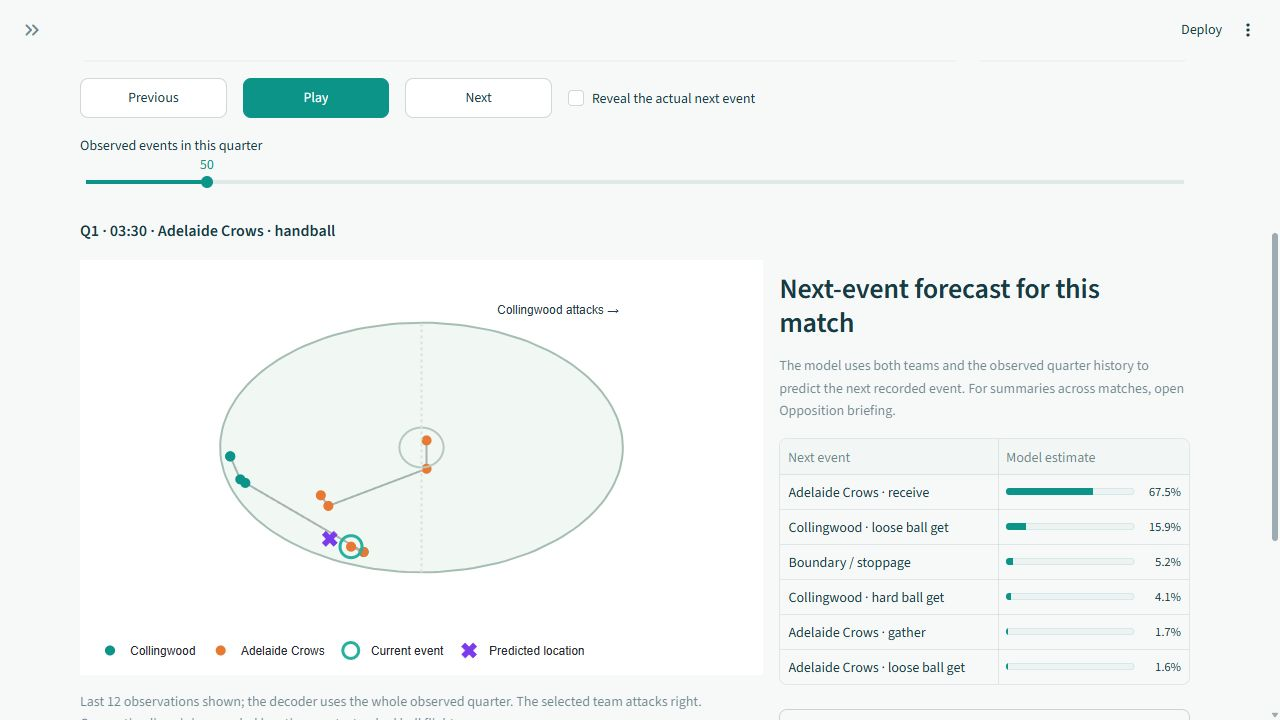
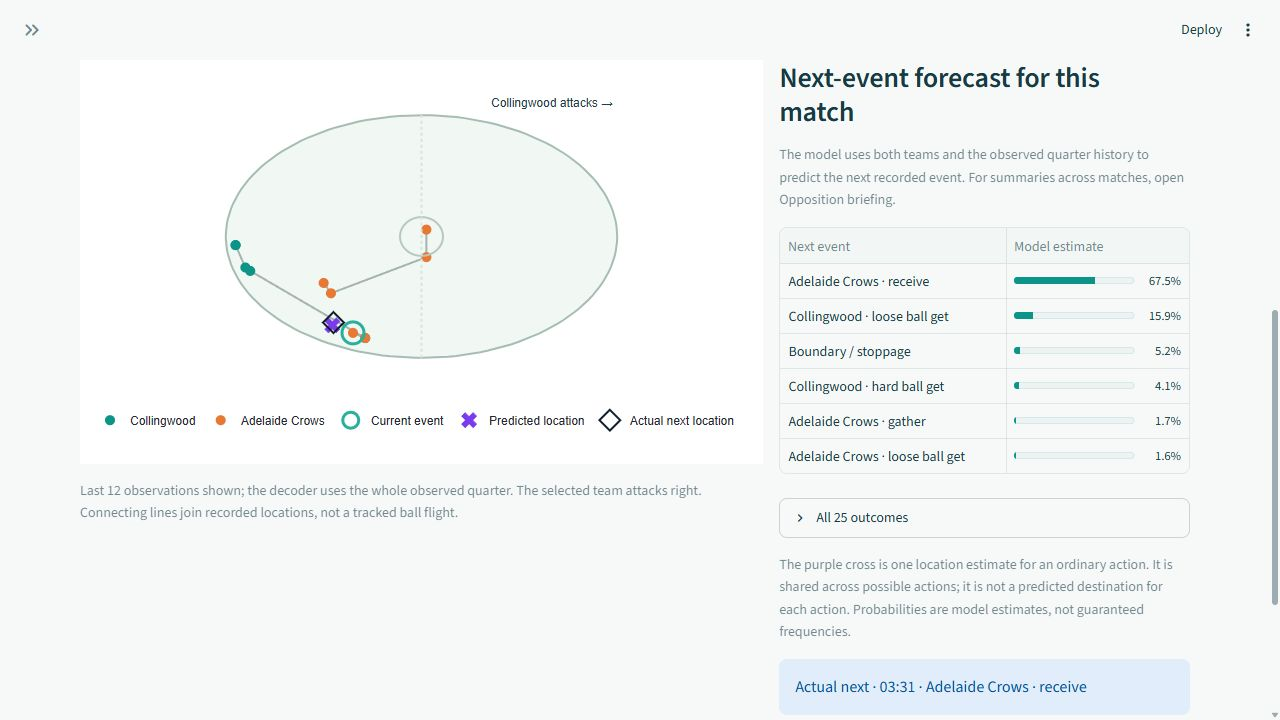
docs: prepare Streamlit deployment and show forecast outcome

diff --git a/docs/app.md b/docs/app.md
@@ -49,9 +49,33 @@ The passage list takes one earliest eligible transition per selected match befor
 
 These summaries describe the situations encountered in the selected games. They do not control for opposition strength, score or changing match circumstances, establish a team's causal style, or prescribe defensive tactics. The archive includes retrospective quality decisions and may have been revised after the match. The 2026 benchmark has already been observed. This version is a historical review tool, not a live match feed.
 
-## Deployment and tests
+## Deploy on Streamlit Community Cloud
 
-`app.py` is the app entrypoint. `requirements-app.txt` installs only the app environment. A Python 3.14 host can serve the committed sample without raw archives or weights. Copy a prepared full bundle to the host and set `AFL_APP_BUNDLE` to serve that archive. Run the same Streamlit command with a host-appropriate bind address and port. Public hosting, authentication and ingestion of live match data are separate deployment steps.
+[Streamlit Community Cloud](https://docs.streamlit.io/deploy/streamlit-community-cloud) provides free hosting from a GitHub repository. Visitors use the app through a public URL without downloading the repository or installing Python. The app runs on the host, so the developer's computer can be switched off.
+
+1. Push the app, its dependency files and the committed sample bundle to GitHub.
+2. Sign in at [share.streamlit.io](https://share.streamlit.io/) and connect the GitHub account containing the repository.
+3. Choose **Create app**, then select the repository, branch and entrypoint. For this repository, use:
+
+   | Setting | Value |
+   | --- | --- |
+   | Repository | `boetomo/afl-opposition-analysis` |
+   | Branch | `main` |
+   | Main file path | `app.py` |
+   | Advanced settings: Python version | **3.14** |
+
+4. Deploy the app and set its sharing to **public** in the app settings. Open the resulting `streamlit.app` URL in a signed-out browser to verify access.
+5. Check team selection, replay controls, actual-event reveal and the HTML report download. Add the verified public URL to the repository's About field and README.
+
+The root `requirements.txt` delegates to `requirements-app.txt`, which installs the app extra from `pyproject.toml`. Select Python 3.14 explicitly because this project requires it. No secrets, GPU, model weights or training are needed for the bundled demo. See the official [deployment guide](https://docs.streamlit.io/deploy/streamlit-community-cloud/deploy-your-app/deploy) and [dependency instructions](https://docs.streamlit.io/deploy/streamlit-community-cloud/deploy-your-app/app-dependencies).
+
+A fresh deployment serves the committed sample covering all 18 clubs. It contains partial matches. The larger local archive under `artifacts/` is not committed and will not appear automatically on the host.
+
+Community Cloud [puts apps to sleep after 12 hours without traffic](https://docs.streamlit.io/deploy/streamlit-community-cloud/manage-your-app#app-hibernation). A visitor can wake the app from its sleeping page.
+
+## Other hosts and tests
+
+`app.py` is the entrypoint. Install `requirements-app.txt` on a Python 3.14 host and run Streamlit with the host's bind address and port. To serve a full archive, copy a prepared bundle to the host and set `AFL_APP_BUNDLE` to its location. Live match ingestion remains a separate feature.
 
 ```powershell
 .\.venv\Scripts\python.exe -m unittest discover -s tests -p test_opposition_app.py -v

diff --git a/README.md b/README.md
@@ -4,11 +4,13 @@ Explore AFL match events, inspect next-event forecasts and download an oppositio
 
 A shared decoder predicts which team acts next, what it does and where the event occurs, using both teams and the observed quarter history. Separate research experiments estimate whether a possession will lead to a shot or goal.
 
-![AFL replay showing recorded ball movement, the predicted next location and next-event probabilities.](docs/images/opposition-app.jpg)
+![Successful next-event forecast: Adelaide receive has the highest model estimate at 67.5%, matching the revealed event. The predicted and actual location markers nearly overlap.](docs/images/opposition-app.jpg)
 
-*Included sample: Collingwood v Adelaide Crows, 14 March 2026, quarter 1, event 50. The actual next event is hidden. The screenshot illustrates the interface; it is not an evaluation result.*
+*Example correct forecast: Collingwood v Adelaide Crows, 14 March 2026, quarter 1, after event 50 (03:30). The model assigns 67.5% to an Adelaide receive, which is the recorded next event at 03:31. The purple prediction marker is close to the actual-location diamond. This illustrates one successful forecast; overall performance is summarised in [Results at a glance](#results-at-a-glance).*
 
 ## Try the app
+
+The app can be hosted on Streamlit Community Cloud so visitors need only a browser. See [online deployment instructions](docs/app.md#deploy-on-streamlit-community-cloud).
 
 Download or clone the repository. With Python 3.14 or later installed, run these commands from the repository root in PowerShell. Skip the first command if the project virtual environment already exists.
 
